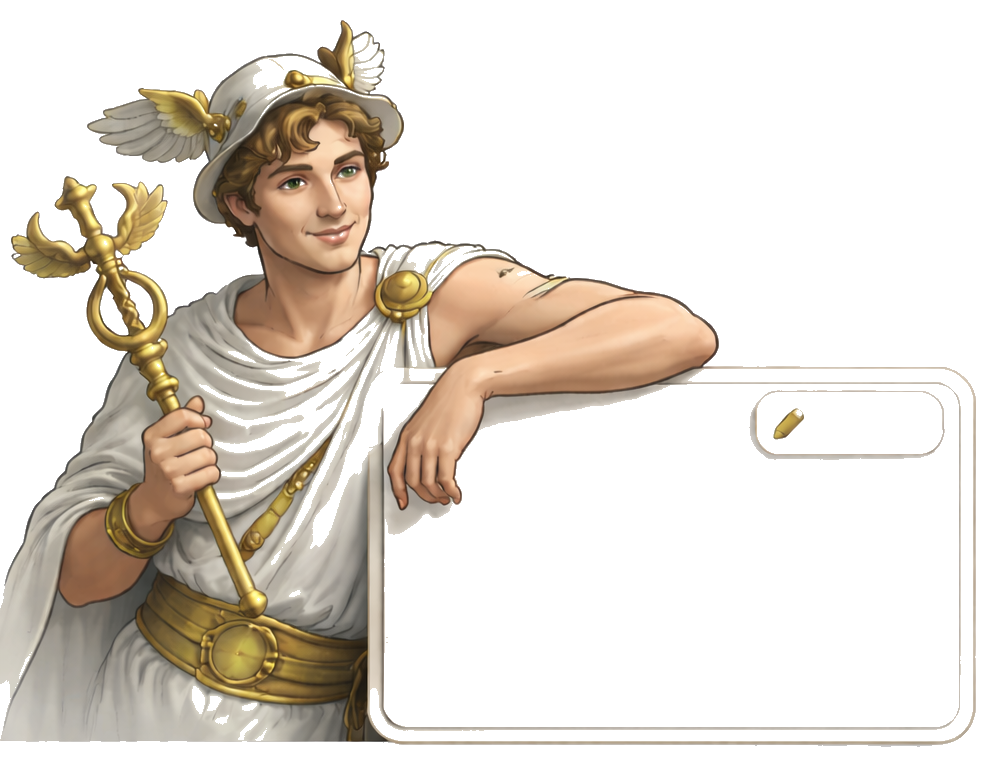
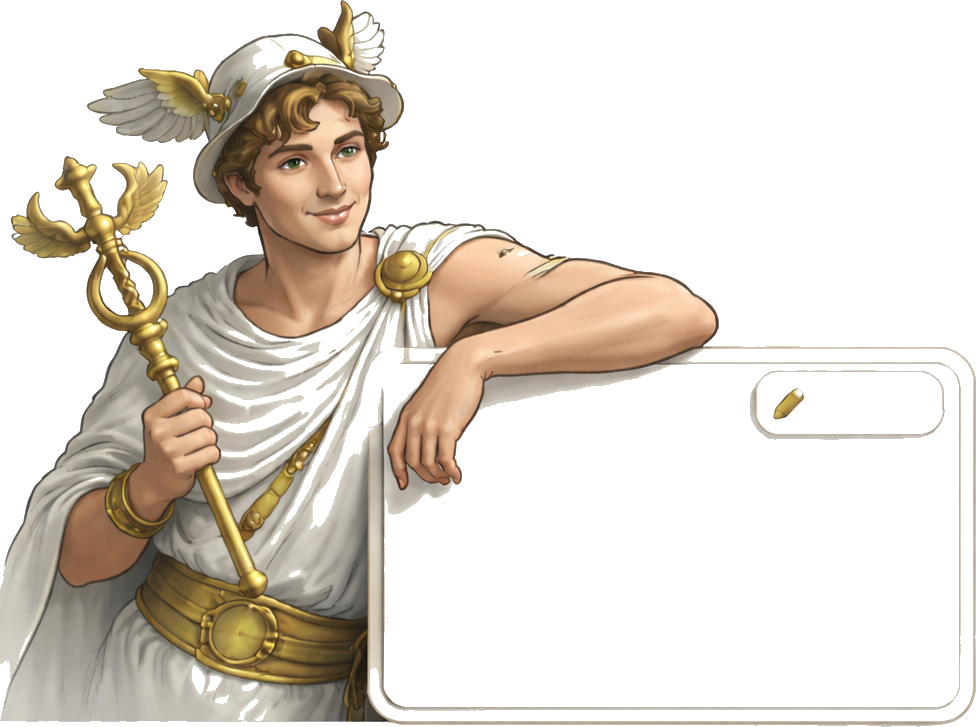
update

Changed region(s): [[0.0, 0.0, 1.0, 1.0]]

diff --git a/components/WalletFull.tsx b/components/WalletFull.tsx
@@ -65,11 +65,11 @@ type WalletHermesLayout = {
 
 const DEFAULT_WALLET_HERMES_LAYOUT: WalletHermesLayout = {
   widthPercent: 100,
-  heightPx: 420,
+  heightPx: 392,
   offsetX: 0,
   offsetY: 0,
   cardWidthPx: 330,
-  cardHeightPx: 250,
+  cardHeightPx: 232,
   cardOffsetX: 0,
   cardOffsetY: -18,
 };
@@ -746,7 +746,7 @@ export default function WalletPage() {
               </div>
               <div className="overflow-hidden bg-[linear-gradient(180deg,rgba(255,250,242,0.98)_0%,rgba(246,238,226,0.98)_100%)]">
                 <div className="relative">
-                  <div className="px-0 pt-4">
+                  <div className="px-0 pt-0">
                     <img
                       src="/wallet-hermes-guide-cropped.png"
                       alt="Персонаж с табличкой"
@@ -758,9 +758,9 @@ export default function WalletPage() {
                     />
                   </div>
                   <div
-                    className="relative z-10 flex justify-end px-4 pb-4 pointer-events-none"
+                    className="relative z-10 flex justify-end px-4 pb-0 pointer-events-none"
                     style={{
-                      marginTop: `-${Math.round(walletHermesLayout.cardHeightPx * 0.72)}px`,
+                      marginTop: `-${Math.round(walletHermesLayout.cardHeightPx * 0.78)}px`,
                     }}
                   >
                     <div
@@ -805,7 +805,7 @@ export default function WalletPage() {
                               {isUnlimited ? "∞" : topupBusy ? "Создаю оплату…" : "Оплатить"}
                             </button>
                           </div>
-                          <div className="mt-2 text-[11px] leading-4 text-slate-500">Минимум 1 ₽. Для безлимита оплата не нужна.</div>
+                          
                           {topupError ? <div className="mt-2 text-xs text-red-600">{topupError}</div> : null}
                         </>
                       ) : (

diff --git a/global_template_fix/components/WalletFull.tsx b/global_template_fix/components/WalletFull.tsx
@@ -65,11 +65,11 @@ type WalletHermesLayout = {
 
 const DEFAULT_WALLET_HERMES_LAYOUT: WalletHermesLayout = {
   widthPercent: 100,
-  heightPx: 420,
+  heightPx: 392,
   offsetX: 0,
   offsetY: 0,
   cardWidthPx: 330,
-  cardHeightPx: 250,
+  cardHeightPx: 232,
   cardOffsetX: 0,
   cardOffsetY: -18,
 };
@@ -746,7 +746,7 @@ export default function WalletPage() {
               </div>
               <div className="overflow-hidden bg-[linear-gradient(180deg,rgba(255,250,242,0.98)_0%,rgba(246,238,226,0.98)_100%)]">
                 <div className="relative">
-                  <div className="px-0 pt-4">
+                  <div className="px-0 pt-0">
                     <img
                       src="/wallet-hermes-guide-cropped.png"
                       alt="Персонаж с табличкой"
@@ -758,9 +758,9 @@ export default function WalletPage() {
                     />
                   </div>
                   <div
-                    className="relative z-10 flex justify-end px-4 pb-4 pointer-events-none"
+                    className="relative z-10 flex justify-end px-4 pb-0 pointer-events-none"
                     style={{
-                      marginTop: `-${Math.round(walletHermesLayout.cardHeightPx * 0.72)}px`,
+                      marginTop: `-${Math.round(walletHermesLayout.cardHeightPx * 0.78)}px`,
                     }}
                   >
                     <div
@@ -805,7 +805,7 @@ export default function WalletPage() {
                               {isUnlimited ? "∞" : topupBusy ? "Создаю оплату…" : "Оплатить"}
                             </button>
                           </div>
-                          <div className="mt-2 text-[11px] leading-4 text-slate-500">Минимум 1 ₽. Для безлимита оплата не нужна.</div>
+                          
                           {topupError ? <div className="mt-2 text-xs text-red-600">{topupError}</div> : null}
                         </>
                       ) : (
